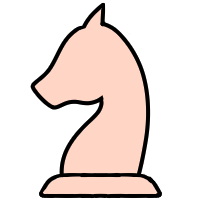
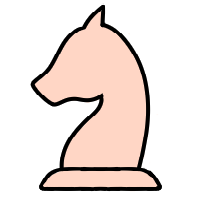
Updated piece appearances, added movement constraints for all pieces, added certain movement permissions to pawn and knight (of all colors), filled in the board, and added taking pieces.

diff --git a/Chess/src/Driver.java b/Chess/src/Driver.java
@@ -66,7 +66,7 @@ public class Driver extends JPanel{
 	Pawn bpawn8 = new Pawn(16, "black");
 	
 	Queen bqueen = new Queen(4, "black");
-	King bking = new King(3, "black");
+	King bking = new King(5, "black");
 	
 	int turn = 0;
 	
@@ -94,17 +94,17 @@ public class Driver extends JPanel{
 	}
 	
 	public void drawPieces(Graphics g) {
-		g.drawImage(wpawn1.getImage(), wpawn1.getX(),  wpawn1.getY()+2,  100,  95, this);
-		g.drawImage(wpawn2.getImage(), wpawn2.getX(),  wpawn2.getY()+2,  100,  95, this);
-		g.drawImage(wpawn3.getImage(), wpawn3.getX(),  wpawn3.getY()+2,  100,  95, this);
-		g.drawImage(wpawn4.getImage(), wpawn4.getX(),  wpawn4.getY()+2,  100,  95, this);
-		g.drawImage(wpawn5.getImage(), wpawn5.getX(),  wpawn5.getY()+2,  100,  95, this);
-		g.drawImage(wpawn6.getImage(), wpawn6.getX(),  wpawn6.getY()+2,  100,  95, this);
-		g.drawImage(wpawn7.getImage(), wpawn7.getX(),  wpawn7.getY()+2,  100,  95, this);
-		g.drawImage(wpawn8.getImage(), wpawn8.getX(),  wpawn8.getY()+2,  100,  95, this);
+		g.drawImage(wpawn1.getImage(), wpawn1.getX(),  wpawn1.getY(),  100,  100, this);
+		g.drawImage(wpawn2.getImage(), wpawn2.getX(),  wpawn2.getY(),  100,  100, this);
+		g.drawImage(wpawn3.getImage(), wpawn3.getX(),  wpawn3.getY(),  100,  100, this);
+		g.drawImage(wpawn4.getImage(), wpawn4.getX(),  wpawn4.getY(),  100,  100, this);
+		g.drawImage(wpawn5.getImage(), wpawn5.getX(),  wpawn5.getY(),  100,  100, this);
+		g.drawImage(wpawn6.getImage(), wpawn6.getX(),  wpawn6.getY(),  100,  100, this);
+		g.drawImage(wpawn7.getImage(), wpawn7.getX(),  wpawn7.getY(),  100,  100, this);
+		g.drawImage(wpawn8.getImage(), wpawn8.getX(),  wpawn8.getY(),  100,  100, this);
 		
-	    g.drawImage(wknight1.getImage(), wknight1.getX(), wknight1.getY(), 100, 90, this);
-	    g.drawImage(wknight2.getImage(),  wknight2.getX(),  wknight2.getY(), 100, 90,  this);
+	    g.drawImage(wknight1.getImage(), wknight1.getX(), wknight1.getY(), 100, 100, this);
+	    g.drawImage(wknight2.getImage(),  wknight2.getX(),  wknight2.getY(), 100, 100,  this);
 	    
 	    g.drawImage(wrook1.getImage(),  wrook1.getX(),  wrook1.getY(),  100, 100, this);
 	    g.drawImage(wrook2.getImage(),  wrook2.getX(),  wrook2.getY(),  100, 100, this);
@@ -116,11 +116,30 @@ public class Driver extends JPanel{
 	    g.drawImage(wking.getImage(),  wking.getX(),  wking.getY(),  100, 100, this); 
 	    
 	    //drawing the pieces on the other side
-	    drawRotate(bking.getImage(), 400, 2, g);
+	    drawRotate(brook1.getImage(), brook1.getX(), brook1.getY(), g);
+	    drawRotate(bknight1.getImage(), bknight1.getX(), bknight1.getY(), g);
+	    drawRotate(bbishop1.getImage(), bbishop1.getX(), bbishop1.getY(), g);
+	    drawRotate(bqueen.getImage(), bqueen.getX(), bqueen.getY(), g);
+	    drawRotate(bking.getImage(), bking.getX(), bking.getY(), g);
+	    drawRotate(bbishop2.getImage(), bbishop2.getX(), bbishop2.getY(), g);
+	    drawRotate(bknight2.getImage(), bknight2.getX(), bknight2.getY(), g);
+	    drawRotate(brook2.getImage(), brook2.getX(), brook2.getY(), g);
+	    
+	    drawRotate(bpawn1.getImage(), bpawn1.getX(), bpawn1.getY(), g);
+	    drawRotate(bpawn2.getImage(), bpawn2.getX(), bpawn2.getY(), g);
+	    drawRotate(bpawn3.getImage(), bpawn3.getX(), bpawn3.getY(), g);
+	    drawRotate(bpawn4.getImage(), bpawn4.getX(), bpawn4.getY(), g);
+	    drawRotate(bpawn5.getImage(), bpawn5.getX(), bpawn5.getY(), g);
+	    drawRotate(bpawn6.getImage(), bpawn6.getX(), bpawn6.getY(), g);
+	    drawRotate(bpawn7.getImage(), bpawn7.getX(), bpawn7.getY(), g);
+	    drawRotate(bpawn8.getImage(), bpawn8.getX(), bpawn8.getY(), g);
+	    System.out.println("wpawn" + wpawn1.getY());
+	    System.out.println("bpawn" + bpawn1.getY());
 
 	}
 	
 	public Driver() {
+		//black pieces
 		board[0][0] = brook1;
 		board[0][1] = bknight1;
 		board[0][2] = bbishop1;
@@ -130,11 +149,23 @@ public class Driver extends JPanel{
 		board[0][6] = bknight2;
 		board[0][7] = brook2;
 		
+		board[1][0] = bpawn1;
+		board[1][1] = bpawn2;
+		board[1][2] = bpawn3;
+		board[1][3] = bpawn4;
+		board[1][4] = bpawn5;
+		board[1][5] = bpawn6;
+		board[1][6] = bpawn7;
+		board[1][7] = bpawn8;
+
+		//empty space
 		for (int i = 2; i < 6; i++) {
 			for (int j = 0; j < 8; j++) {
 				board[i][j] = null;
 			}
 		}
+		
+		//white pieces
 		board[6][0] = wpawn1;
 		board[6][1] = wpawn2;
 		board[6][2] = wpawn3;
@@ -162,7 +193,6 @@ public class Driver extends JPanel{
 		AffineTransform tx = AffineTransform.getRotateInstance(rotationRequired, locationX, locationY);
 		AffineTransformOp op = new AffineTransformOp(tx, AffineTransformOp.TYPE_BILINEAR);
 	    g.drawImage(op.filter(image, null), x, y, 100, 100, this);
-		
 	}
 	
 	
@@ -174,7 +204,7 @@ public class Driver extends JPanel{
 		
 		JLabel textLabel = new JLabel("WEEWOOOOOOOOOOOOO", SwingConstants.CENTER);
 		frame.setLayout(new GridLayout());
-		frame.setSize(800, 800);
+		frame.setSize(1000, 1000);
 		
 		frame.getContentPane().add(new Driver());
 		frame.setLocationRelativeTo(null);

diff --git a/Chess/src/Movement.java b/Chess/src/Movement.java
@@ -10,6 +10,7 @@ public class Movement implements MouseListener, MouseMotionListener{
 	int offsetY;
 	int a;
 	int b;
+	int ogX, ogY;
 	private Piece board[][];
 	private JFrame GUI;
 	private Piece piece;
@@ -24,21 +25,25 @@ public class Movement implements MouseListener, MouseMotionListener{
 
 		}
 		
-		
 		@Override
 		public void mousePressed(MouseEvent e) {
 			int x = (int)e.getPoint().x;
 			int y = (int)e.getPoint().y;
+			
+			aa:
 			for (int i = 0; i < 8; i++) {
 				for (int j = 0; j < 8; j++) {
 					if (mouseOnPiece((board[i][j]), x, y)) {
+						//save the original position in case move is invalid
+						ogX = board[i][j].getX();
+						ogY = board[i][j].getY();
+						//offset mouse-piece
 						offsetX = x-board[i][j].getX();
 						offsetY = y-board[i][j].getY();
 						//obtaining the piece
 						a=i;
 						b=j;
-						System.out.println("piece detection successful");
-						break;
+						break aa;
 					}
 				}
 			}
@@ -49,6 +54,29 @@ public class Movement implements MouseListener, MouseMotionListener{
 			// TODO Auto-generated method stub
 			board[a][b].setX((int)((e.getPoint().x)/100)*100);
 			board[a][b].setY((int)((e.getPoint().y)/100)*100);
+
+			aa:
+			for (int i = 0; i < 8; i++) {
+				for (int j = 0; j < 8; j++) {
+					if (board[a][b].getY() == 100*i && board[a][b].getX() == 100*j) {
+						//function goes here because both positions are available
+						if (board[a][b].canMove(b, a, j, i)) {
+						if (board[i][j] != null) {
+							board[i][j].setX(800);
+							board[i][j] = null;
+						}
+						board[i][j] = board[a][b];
+						board[a][b] = null;
+						break aa;
+						}
+						else {
+							board[a][b].setX((int)(ogX));
+							board[a][b].setY((int)(ogY));
+							break aa;
+						}
+					}
+				}
+			}
 			GUI.repaint();
 		}
 
@@ -84,7 +112,6 @@ public class Movement implements MouseListener, MouseMotionListener{
 		
 		public static boolean mouseOnPiece(Piece piece, int x, int y) {
 			if (piece == null) {
-				System.out.println("no piece!");
 				return false;
 			}
 			//find if the click is on a piece

diff --git a/Chess/src/Piece.java b/Chess/src/Piece.java
@@ -11,6 +11,7 @@ public class Piece {
 		private int x;
 		private int y;
 		private BufferedImage img;
+		protected Color colour;
 		
 	    public Piece(int A) {
 	        position = A;
@@ -46,6 +47,38 @@ public class Piece {
 	    case 8:
 	        x = 700;
 	        y = 0;
+	        break;
+	    case 9:
+	        x = 0;
+	        y = 100;
+	        break;
+	    case 10:
+	        x = 100;
+	        y = 100;
+	        break;
+	    case 11:
+	        x = 200;
+	        y = 100;
+	        break;
+	    case 12:
+	        x = 300;
+	        y = 100;
+	        break;
+	    case 13:
+	        x = 400;
+	        y = 100;
+	        break;
+	    case 14:
+	        x = 500;
+	        y = 100;
+	        break;
+	    case 15:
+	        x = 600;
+	        y = 100;
+	        break;
+	    case 16:
+	        x = 700;
+	        y = 100;
 	        break;
 	    case 49:
 	        x = 0;
@@ -147,5 +180,10 @@ public class Piece {
 		
 		public void setY(int y) {
 			this.y= y;
+		}
+		
+		//parameters: one: og X, two: og Y, three: new X, four: new Y
+		public boolean canMove(int one, int two, int three, int four) {
+			return false;
 		}
 	}

diff --git a/Chess/src/Knight.java b/Chess/src/Knight.java
@@ -13,9 +13,17 @@ public class Knight extends Piece {
 			else {
 				knight = super.createImg("images/knightb.png");
 			}
+
 		}
 		
 		public BufferedImage getImage() {
 			return knight;
+		}
+		
+		public boolean canMove(int one, int two, int three, int four) {
+			if (((three == one+1|| three == one-1)&&(four == two+2|| four == two-2)) || ((three == one+2|| three == one-2)&&(four==two+1|| four == two-1))) {
+				return true;
+			}
+			return false;
 		}
 }

diff --git a/Chess/src/Pawn.java b/Chess/src/Pawn.java
@@ -17,5 +17,15 @@ String color;
 	
 	public BufferedImage getImage() {
 		return pawn;
+	};
+	
+	public boolean canMove(int one, int two, int three, int four) {
+		if (color == "white" && one == three && (four == two-2 | four == two-1)) {
+			return true;
+		}
+		else if (color == "black" && one == three && (four == two+2 | four == two+1)) {
+			return true;
+		}
+		return false;
 	}
 }
